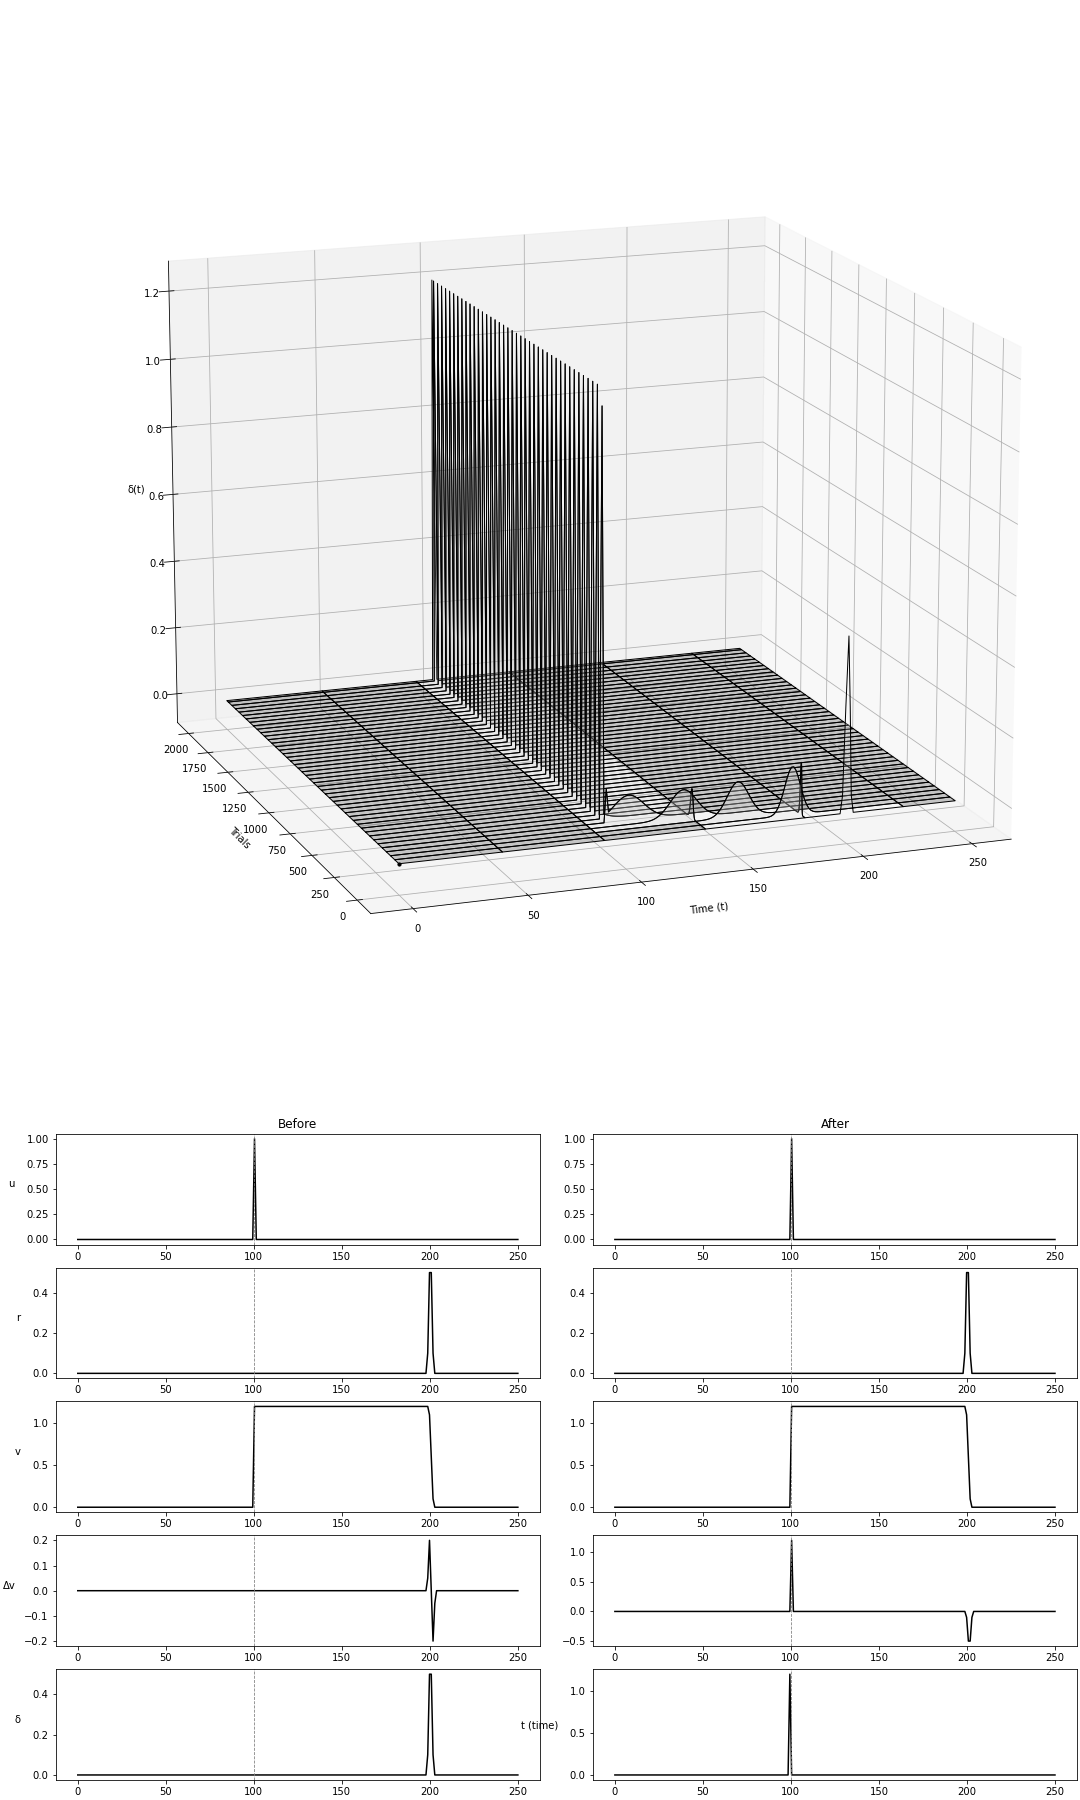
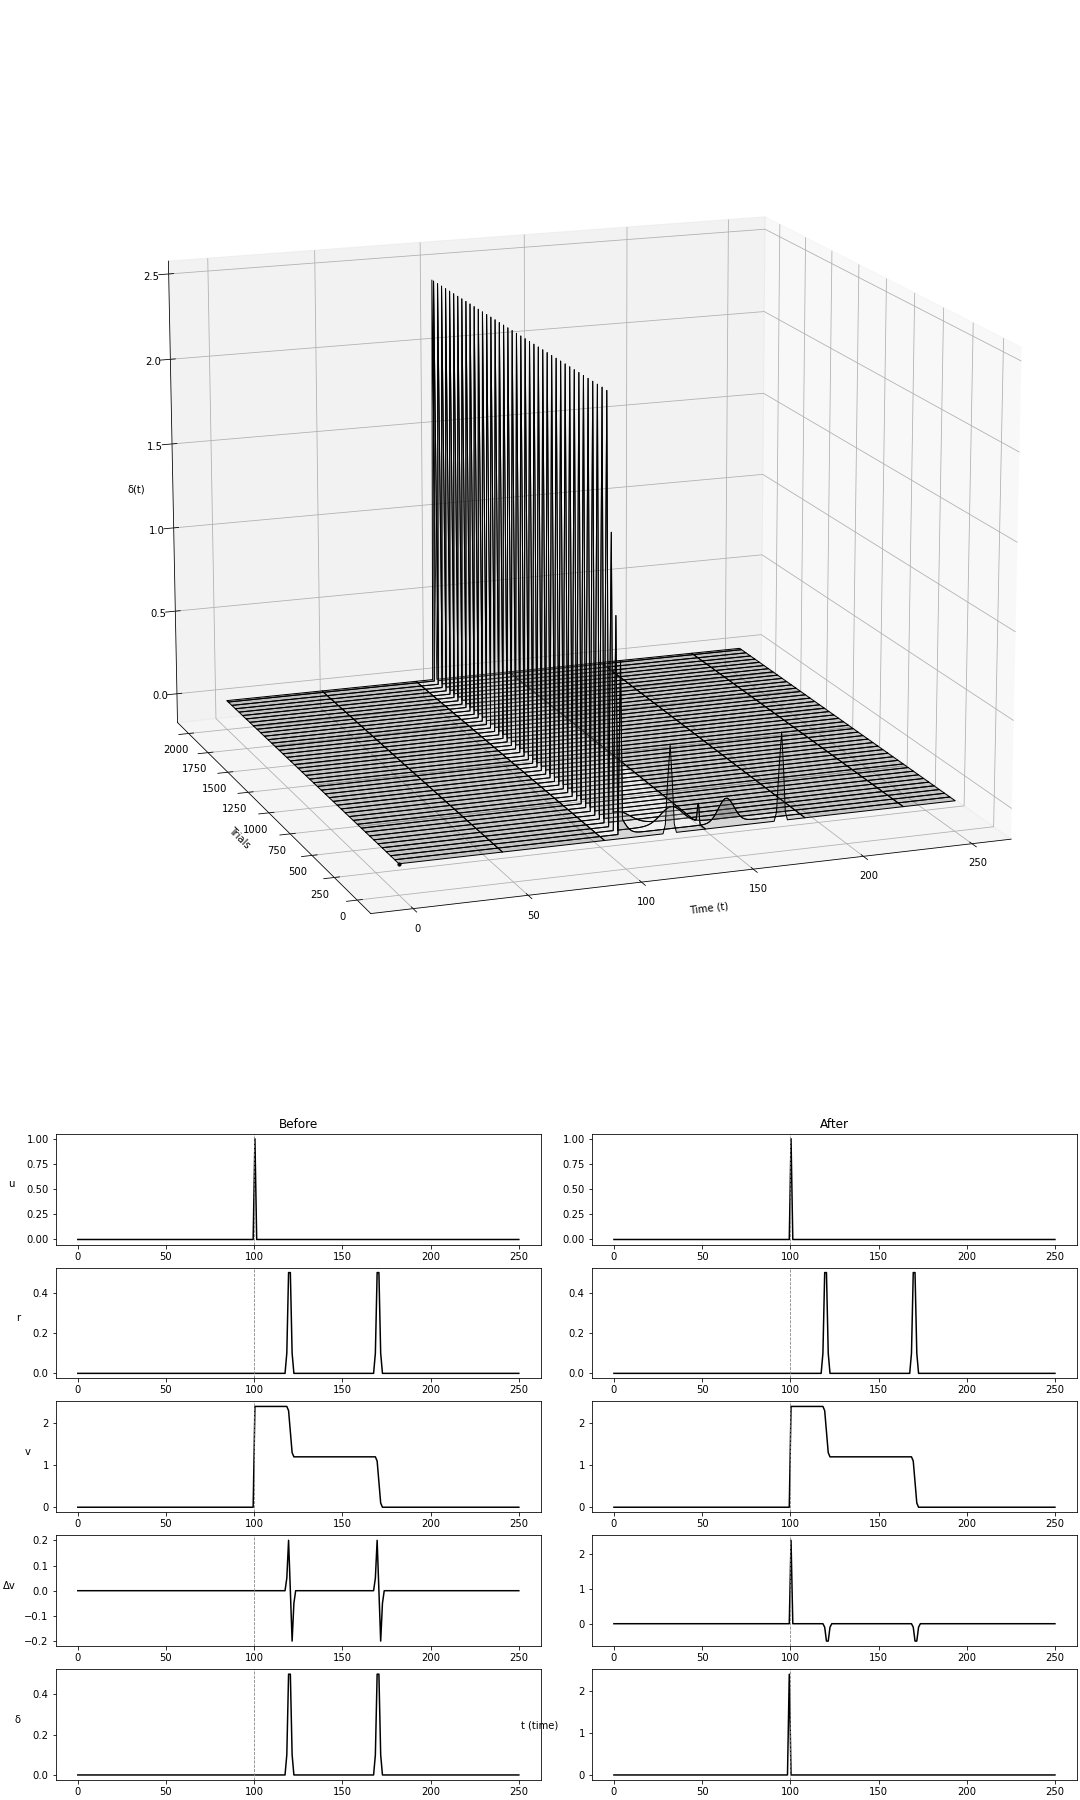
current.

diff --git a/hw-3/temporal_difference/td.py b/hw-3/temporal_difference/td.py
@@ -52,6 +52,12 @@ def make_reward(n = num_time_steps):
     r = np.zeros(n)
     r = add_bump(r, 200, bump_width=2)
     return r
+#%%
+def make_reward_by_stimulus_distance(n = num_time_steps, stimulus_position_idx=100, stimulus_distance=50):
+    """."""
+    r = np.zeros(n)
+    r = add_bump(r, stimulus_position_idx + stimulus_distance, bump_width=2)
+    return r
 
 #%%
 def make_multiple_rewards(n = num_time_steps, num_rewards=2):
@@ -316,7 +322,28 @@ if False:
 ## Reward Timing  (1h)
 # 1. Give reward close to stimulus
 # 2. Give reward far from stimulus
-   
+def experiment_reward_timing(selected_condition, num_trials=2000, learning_rate=0.5):
+    model = initialize_model()
+    if selected_condition == "NEAR_STIMULUS":
+        model = model_from_template(model, overrides={"rewards": make_reward_by_stimulus_distance(stimulus_distance=20)})
+    elif selected_condition == "FAR_STIMULUS":
+        model = model_from_template(model, overrides={"rewards": make_reward_by_stimulus_distance(stimulus_distance=140)})
+    else:
+        raise ValueError("Invalid condition") 
+    
+    pre_train_model, pre_deltas = pre_train_behavior(model, learning_rate=learning_rate)
+    trained_model, train_deltas = train_model(model, num_trials=num_trials, learning_rate=learning_rate)
+    post_train_model, post_train_deltas = post_train_behavior(trained_model, num_trials=num_trials, learning_rate=learning_rate)
+
+    save_path = os.path.join(IMAGE_PATH, f"experiment_reward_timing_{selected_condition}.png")
+
+    plot_model_behavior(pre_train_model, pre_deltas,
+                        trained_model, train_deltas, 
+                        post_train_model, post_train_deltas, 
+                        save_path=save_path) 
+
+for condition in ["NEAR_STIMULUS", "FAR_STIMULUS"]:
+    experiment_reward_timing(condition)
 #%%
 ## Learning Rate (1h)
 # 1. High Learning Rate
@@ -337,6 +364,7 @@ def experiment_learning_rate(selected_condition, num_trials=2000, high_lr=0.5, l
 
 for condition in ["HIGH_LR", "LOW_LR"]:
     experiment_learning_rate(condition) 
+    
 #%%
 ## Multiple Rewards (3h)
 # 1. Provide two rewards.
@@ -346,7 +374,7 @@ def experiment_multiple_rewards(selected_condition, num_trials=2000, learning_ra
     if selected_condition == "SINGLE_REWARD":
         model = model_from_template(model, overrides={"rewards": make_reward()})
     elif selected_condition == "MULTIPLE_REWARDS":
-        model_from_template(model, overrides={"rewards": make_multiple_rewards(num_rewards=num_rewards)})
+        model = model_from_template(model, overrides={"rewards": make_multiple_rewards(num_rewards=num_rewards)})
     else:
         raise ValueError("Invalid condition") 
     
